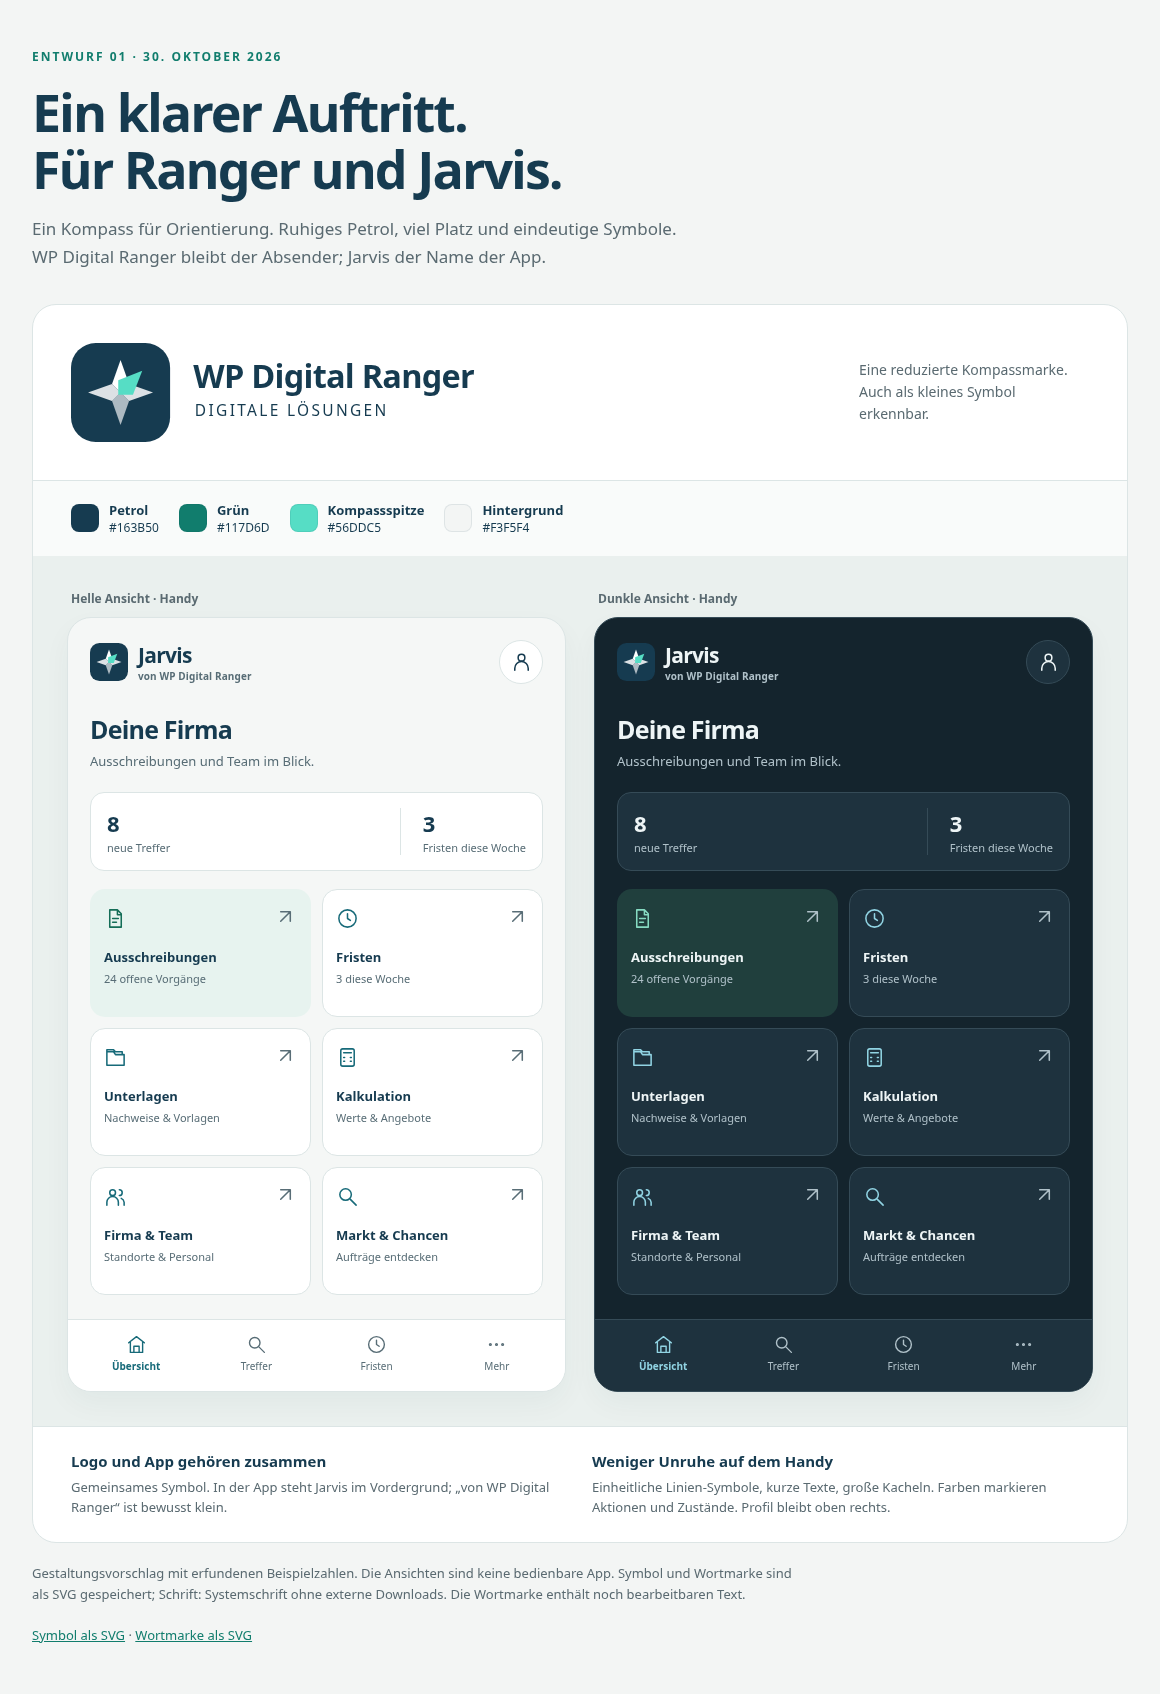
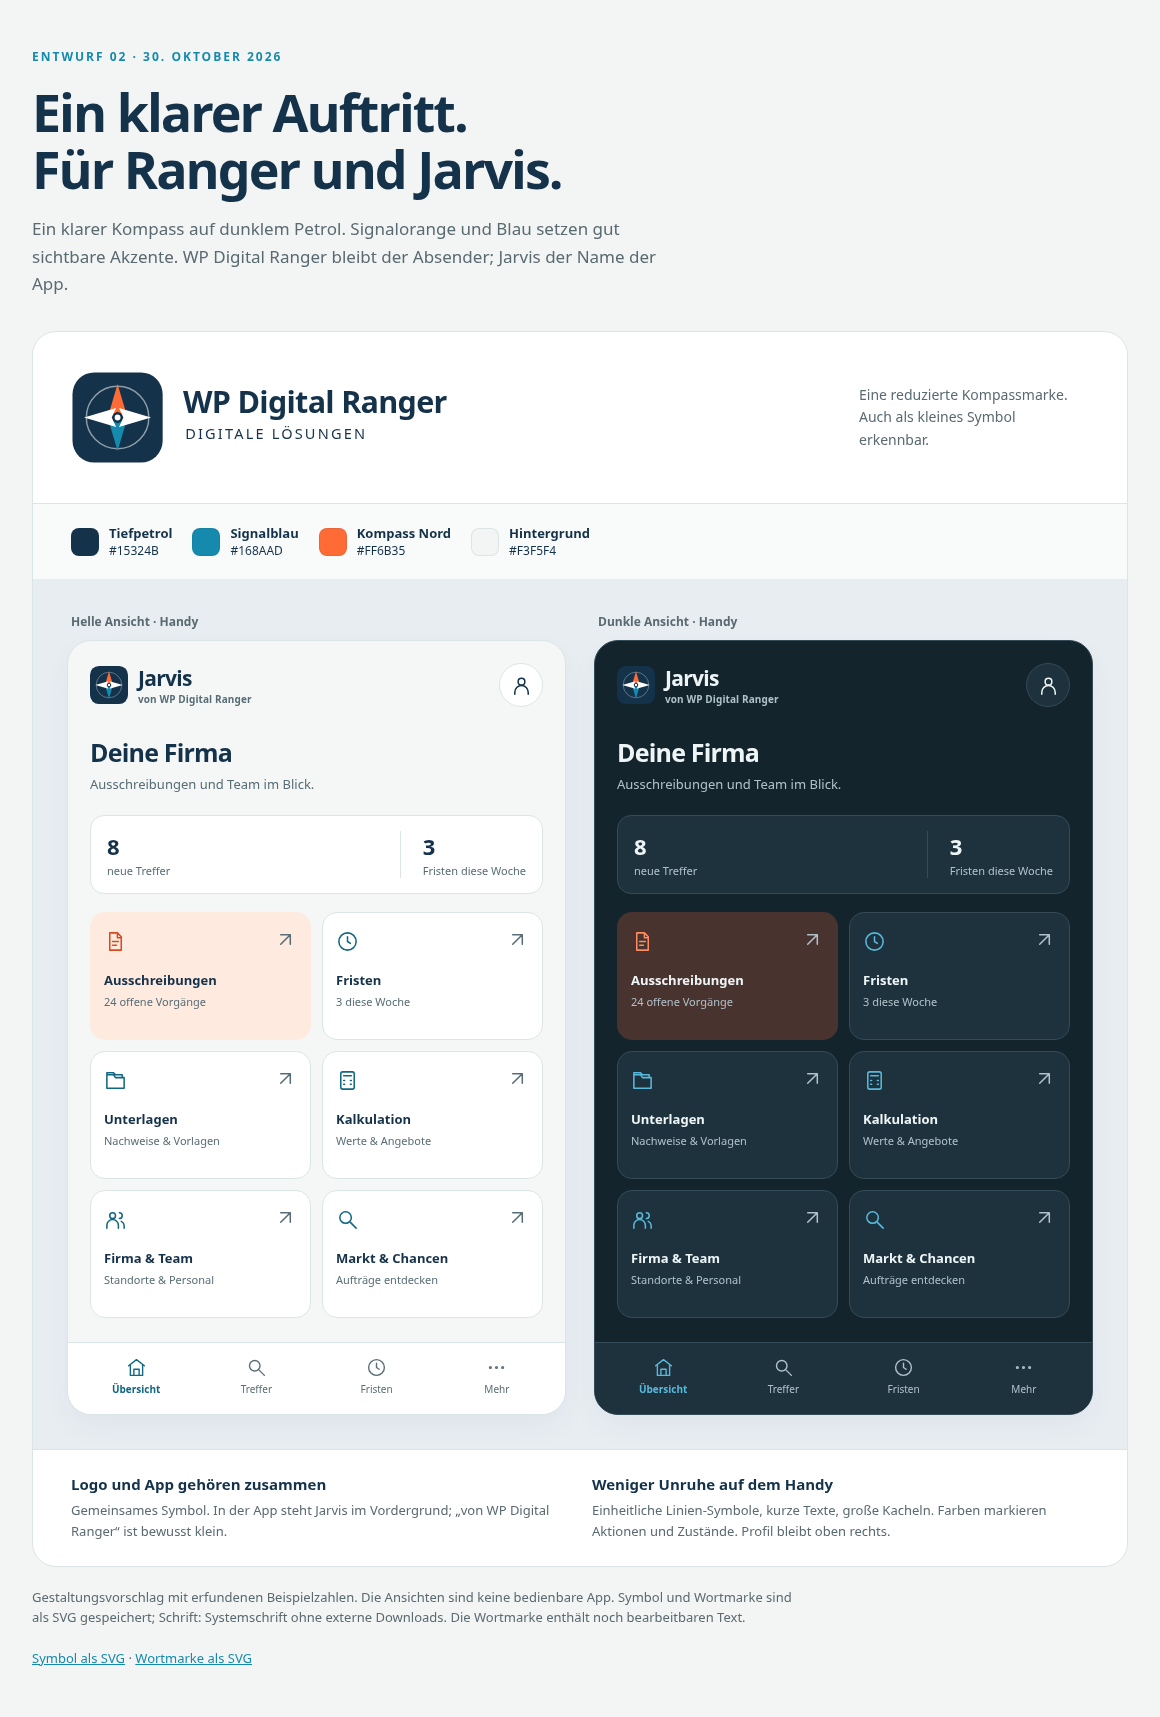
Logoentwurf mit klarerem Farbkontrast überarbeiten

diff --git a/docs/design/vorschau.html b/docs/design/vorschau.html
@@ -5,17 +5,17 @@
 <meta name="viewport" content="width=device-width, initial-scale=1">
 <title>WP Digital Ranger · Designvorschlag für Jarvis</title>
 <style>
-:root{color-scheme:light;--ink:#163b50;--teal:#117d6d;--paper:#f3f5f4;--muted:#5a6a71;--line:#dce5e5;font-family:system-ui,-apple-system,"Segoe UI",sans-serif;color:var(--ink);background:var(--paper)}
-*{box-sizing:border-box}body{margin:0}main{max-width:1160px;margin:auto;padding:48px 32px}h1{max-width:700px;font-size:clamp(30px,5vw,52px);line-height:1.1;letter-spacing:-2px;margin:18px 0}p{line-height:1.6}.intro{max-width:650px;color:var(--muted);font-size:17px}.eyebrow{font-size:12px;letter-spacing:2px;font-weight:750;text-transform:uppercase;color:var(--teal)}.board{margin-top:34px;border:1px solid var(--line);background:#fff;border-radius:24px;overflow:hidden}.brand{padding:38px;display:flex;align-items:center;justify-content:space-between;gap:24px;flex-wrap:wrap}.brand img{width:min(100%,480px);height:auto}.brand p{font-size:14px;max-width:230px;color:var(--muted)}.swatches{display:flex;gap:20px;flex-wrap:wrap;padding:20px 38px;background:#f9fbfa;border-top:1px solid var(--line)}.swatch{display:flex;gap:10px;align-items:center;font-size:12px}.swatch i{width:28px;height:28px;border-radius:8px;background:var(--color);border:1px solid #163b5018}.swatch b{display:block;font-size:13px}.screens{display:grid;grid-template-columns:1fr 1fr;gap:28px;padding:34px;background:#eaf0ee}.screen-label{display:block;font-size:12px;font-weight:700;color:var(--muted);margin:0 0 10px 4px}.phone{--bg:#f5f7f6;--card:#fff;--text:#163b50;--sub:#586d76;--border:#dce5e5;--action:#176a79;--tint:#e7f3ef;--green:#146d57;background:var(--bg);color:var(--text);border:1px solid var(--border);border-radius:24px;overflow:hidden;box-shadow:0 12px 28px #163b500b;position:relative}.phone.dark{--bg:#14242d;--card:#1e323e;--text:#eef5f6;--sub:#b0c1c9;--border:#354b57;--action:#91d4e3;--tint:#203f3d;--green:#86dbc2}.top{padding:22px 22px 0;display:flex;justify-content:space-between;align-items:center}.product{display:flex;align-items:center;gap:10px}.product img{height:38px;width:38px}.product b{font-size:21px;letter-spacing:-.7px}.product small{display:block;font-size:10px;font-weight:600;letter-spacing:.1px;color:var(--sub)}.profile{width:44px;height:44px;display:grid;place-items:center;border:1px solid var(--border);border-radius:50%;background:var(--card);color:var(--text)}svg.icon{height:23px;width:23px;fill:none;stroke:currentColor;stroke-width:1.6;stroke-linecap:round;stroke-linejoin:round}.content{padding:28px 22px 24px}.content h2{font-size:25px;letter-spacing:-.8px;margin:0 0 5px}.content>p{font-size:13px;color:var(--sub);margin:0 0 20px}.summary{display:flex;align-items:center;justify-content:space-between;padding:15px 16px;border:1px solid var(--border);border-radius:14px;margin-bottom:18px;background:var(--card)}.summary b{font-size:22px;letter-spacing:-.5px}.summary small{display:block;color:var(--sub);font-size:11px;margin-top:2px}.summary>div+div{border-left:1px solid var(--border);padding-left:22px}.tiles{display:grid;grid-template-columns:repeat(2,minmax(0,1fr));gap:11px}.tile{min-width:0;min-height:128px;padding:15px 13px;border:1px solid var(--border);border-radius:15px;background:var(--card)}.tile-head{display:flex;align-items:center;justify-content:space-between;color:var(--action);margin-bottom:15px}.tile-head>span{color:var(--sub);font-size:18px}.tile strong{display:block;font-size:13px}.tile small{display:block;color:var(--sub);font-size:11px;margin-top:5px}.tile.feature{background:var(--tint);border-color:transparent}.tile.feature .tile-head{color:var(--green)}.bottom{display:grid;grid-template-columns:repeat(4,minmax(0,1fr));border-top:1px solid var(--border);padding:10px 8px 13px;background:var(--card)}.nav-item{min-height:48px;display:flex;flex-direction:column;align-items:center;justify-content:center;gap:4px;color:var(--sub);font-size:10px}.nav-item.selected{color:var(--action);font-weight:750}.nav-item .icon{width:21px;height:21px}.note{font-size:13px;color:var(--muted);margin:20px 0 0;max-width:760px}.decision{padding:24px 38px;border-top:1px solid var(--line);display:grid;grid-template-columns:1fr 1fr;gap:24px}.decision h3{font-size:15px;margin:0 0 6px}.decision p{font-size:13px;color:var(--muted);margin:0}.mock-data{font-size:11px;letter-spacing:.8px;color:var(--muted);margin-top:22px;text-transform:uppercase}a{color:var(--teal)}@media(max-width:680px){main{padding:28px 16px}h1{letter-spacing:-1px}.brand{padding:25px}.swatches{padding:20px 25px}.screens{grid-template-columns:1fr;padding:20px;gap:24px}.decision{grid-template-columns:1fr;padding:25px}.content{padding-left:18px;padding-right:18px}}
+:root{color-scheme:light;--ink:#15324b;--teal:#168aad;--paper:#f3f5f4;--muted:#5a6a71;--line:#dce5e5;font-family:system-ui,-apple-system,"Segoe UI",sans-serif;color:var(--ink);background:var(--paper)}
+*{box-sizing:border-box}body{margin:0}main{max-width:1160px;margin:auto;padding:48px 32px}h1{max-width:700px;font-size:clamp(30px,5vw,52px);line-height:1.1;letter-spacing:-2px;margin:18px 0}p{line-height:1.6}.intro{max-width:650px;color:var(--muted);font-size:17px}.eyebrow{font-size:12px;letter-spacing:2px;font-weight:750;text-transform:uppercase;color:var(--teal)}.board{margin-top:34px;border:1px solid var(--line);background:#fff;border-radius:24px;overflow:hidden}.brand{padding:38px;display:flex;align-items:center;justify-content:space-between;gap:24px;flex-wrap:wrap}.brand img{width:min(100%,480px);height:auto}.brand p{font-size:14px;max-width:230px;color:var(--muted)}.swatches{display:flex;gap:20px;flex-wrap:wrap;padding:20px 38px;background:#f9fbfa;border-top:1px solid var(--line)}.swatch{display:flex;gap:10px;align-items:center;font-size:12px}.swatch i{width:28px;height:28px;border-radius:8px;background:var(--color);border:1px solid #163b5018}.swatch b{display:block;font-size:13px}.screens{display:grid;grid-template-columns:1fr 1fr;gap:28px;padding:34px;background:#e8edf2}.screen-label{display:block;font-size:12px;font-weight:700;color:var(--muted);margin:0 0 10px 4px}.phone{--bg:#f5f7f6;--card:#fff;--text:#15324b;--sub:#586d76;--border:#dce5e5;--action:#126782;--tint:#ffeadf;--green:#d84b20;background:var(--bg);color:var(--text);border:1px solid var(--border);border-radius:24px;overflow:hidden;box-shadow:0 12px 28px #163b500b;position:relative}.phone.dark{--bg:#14242d;--card:#1e323e;--text:#eef5f6;--sub:#b0c1c9;--border:#354b57;--action:#58b9dc;--tint:#49332f;--green:#ff8b60}.top{padding:22px 22px 0;display:flex;justify-content:space-between;align-items:center}.product{display:flex;align-items:center;gap:10px}.product img{height:38px;width:38px}.product b{font-size:21px;letter-spacing:-.7px}.product small{display:block;font-size:10px;font-weight:600;letter-spacing:.1px;color:var(--sub)}.profile{width:44px;height:44px;display:grid;place-items:center;border:1px solid var(--border);border-radius:50%;background:var(--card);color:var(--text)}svg.icon{height:23px;width:23px;fill:none;stroke:currentColor;stroke-width:1.6;stroke-linecap:round;stroke-linejoin:round}.content{padding:28px 22px 24px}.content h2{font-size:25px;letter-spacing:-.8px;margin:0 0 5px}.content>p{font-size:13px;color:var(--sub);margin:0 0 20px}.summary{display:flex;align-items:center;justify-content:space-between;padding:15px 16px;border:1px solid var(--border);border-radius:14px;margin-bottom:18px;background:var(--card)}.summary b{font-size:22px;letter-spacing:-.5px}.summary small{display:block;color:var(--sub);font-size:11px;margin-top:2px}.summary>div+div{border-left:1px solid var(--border);padding-left:22px}.tiles{display:grid;grid-template-columns:repeat(2,minmax(0,1fr));gap:11px}.tile{min-width:0;min-height:128px;padding:15px 13px;border:1px solid var(--border);border-radius:15px;background:var(--card)}.tile-head{display:flex;align-items:center;justify-content:space-between;color:var(--action);margin-bottom:15px}.tile-head>span{color:var(--sub);font-size:18px}.tile strong{display:block;font-size:13px}.tile small{display:block;color:var(--sub);font-size:11px;margin-top:5px}.tile.feature{background:var(--tint);border-color:transparent}.tile.feature .tile-head{color:var(--green)}.bottom{display:grid;grid-template-columns:repeat(4,minmax(0,1fr));border-top:1px solid var(--border);padding:10px 8px 13px;background:var(--card)}.nav-item{min-height:48px;display:flex;flex-direction:column;align-items:center;justify-content:center;gap:4px;color:var(--sub);font-size:10px}.nav-item.selected{color:var(--action);font-weight:750}.nav-item .icon{width:21px;height:21px}.note{font-size:13px;color:var(--muted);margin:20px 0 0;max-width:760px}.decision{padding:24px 38px;border-top:1px solid var(--line);display:grid;grid-template-columns:1fr 1fr;gap:24px}.decision h3{font-size:15px;margin:0 0 6px}.decision p{font-size:13px;color:var(--muted);margin:0}.mock-data{font-size:11px;letter-spacing:.8px;color:var(--muted);margin-top:22px;text-transform:uppercase}a{color:var(--teal)}@media(max-width:680px){main{padding:28px 16px}h1{letter-spacing:-1px}.brand{padding:25px}.swatches{padding:20px 25px}.screens{grid-template-columns:1fr;padding:20px;gap:24px}.decision{grid-template-columns:1fr;padding:25px}.content{padding-left:18px;padding-right:18px}}
 </style>
 </head>
 <body><main>
-<div class="eyebrow">Entwurf 01 · 30. Oktober 2026</div>
+<div class="eyebrow">Entwurf 02 · 30. Oktober 2026</div>
 <h1>Ein klarer Auftritt.<br>Für Ranger und Jarvis.</h1>
-<p class="intro">Ein Kompass für Orientierung. Ruhiges Petrol, viel Platz und eindeutige Symbole. WP Digital Ranger bleibt der Absender; Jarvis der Name der App.</p>
+<p class="intro">Ein klarer Kompass auf dunklem Petrol. Signalorange und Blau setzen gut sichtbare Akzente. WP Digital Ranger bleibt der Absender; Jarvis der Name der App.</p>
 <section class="board" aria-label="Logo und Anwendungsvorschau">
 <div class="brand"><img src="ranger-wortmarke.svg" alt="Entwurf der Wort-Bildmarke WP Digital Ranger"><p>Eine reduzierte Kompassmarke.<br>Auch als kleines Symbol erkennbar.</p></div>
-<div class="swatches"><div class="swatch"><i style="--color:#163b50"></i><span><b>Petrol</b>#163B50</span></div><div class="swatch"><i style="--color:#117d6d"></i><span><b>Grün</b>#117D6D</span></div><div class="swatch"><i style="--color:#56ddc5"></i><span><b>Kompassspitze</b>#56DDC5</span></div><div class="swatch"><i style="--color:#f3f5f4"></i><span><b>Hintergrund</b>#F3F5F4</span></div></div>
+<div class="swatches"><div class="swatch"><i style="--color:#15324b"></i><span><b>Tiefpetrol</b>#15324B</span></div><div class="swatch"><i style="--color:#168aad"></i><span><b>Signalblau</b>#168AAD</span></div><div class="swatch"><i style="--color:#ff6b35"></i><span><b>Kompass Nord</b>#FF6B35</span></div><div class="swatch"><i style="--color:#f3f5f4"></i><span><b>Hintergrund</b>#F3F5F4</span></div></div>
 <div class="screens" id="screens"></div>
 <div class="decision"><div><h3>Logo und App gehören zusammen</h3><p>Gemeinsames Symbol. In der App steht Jarvis im Vordergrund; „von WP Digital Ranger“ ist bewusst klein.</p></div><div><h3>Weniger Unruhe auf dem Handy</h3><p>Einheitliche Linien-Symbole, kurze Texte, große Kacheln. Farben markieren Aktionen und Zustände. Profil bleibt oben rechts.</p></div></div>
 </section>

diff --git a/docs/stand.md b/docs/stand.md
@@ -5,7 +5,7 @@ Regeln dazu stehen in `AGENTS.md` Abschnitt 1. Neueste Einträge oben.
 ## Aktueller Stand (30.10.2026)
 - **Automationsprüfung 30.10., 18:26 Berlin (lesend):** jüngste CI-, Web- und Datenbankläufe erfolgreich; geplanter Alarm erfolgreich protokolliert. Automatische tägliche Mail separat nachweisen; Details und Prüfgrenzen im neuesten Protokolleintrag.
 - **App online:** https://app.wpdigitalranger.com (seit 30.10.2026; die alte workers.dev-Adresse leitet weiter)
-- **Logo-/Designentwurf zur Ansicht:** `docs/design/vorschau.png` und `docs/design/vorschau.html`, mit skalierbarer Kompass-/Wortmarke für WP Digital Ranger und heller/dunkler Jarvis-Handyansicht. Noch nicht in der App eingesetzt; Benjamin sieht den Entwurf zuerst.
+- **Überarbeiteter Logo-/Designentwurf zur Ansicht:** `docs/design/vorschau.png` und `docs/design/vorschau.html`, mit skalierbarer Kompass-/Wortmarke für WP Digital Ranger und heller/dunkler Jarvis-Handyansicht. Noch nicht in der App eingesetzt; Benjamin sieht den Entwurf zuerst.
   - Startseite mit Erklärung und Beispiel-Steckbrief; Impressum, Datenschutz, Nutzungsbedingungen, AVV (Entwürfe, Benjamin prüft noch).
   - Registrierung mit Passwort, Passwort-Anmeldung/-Wiederherstellung und Mail-Link; bestätigte neue Firmen werden zunächst kostenlos angelegt. Firmen, Bereiche/Standorte, Rollen und Einladungen.
   - Ausschreibungen als Handy-Karten mit Punkten, Frist, Stand und Bereichsfilter; Treffer-Seite mit Steckbrief, Knopf „Hier runterladen“
@@ -242,3 +242,7 @@ Regeln dazu stehen in `AGENTS.md` Abschnitt 1. Neueste Einträge oben.
 - Einrichtungs-Assistent, Sofort-Lauf (Secret ACTIONS_TOKEN von Benjamin gesetzt), tägliche Mail mit Uhrzeitwahl, Handy-Nachrichten.
 - User-Agent nennt jetzt kontakt@wpdigitalranger.com (vorher versehentlich RestockHero-Adresse).
 - Offen für Benjamin: Handy-Test, Rechtstexte lesen, Anthropic-Limit.
+
+### 30.10.2026 – ChatGPT (Logo-Kontrast nachgeschärft)
+- Auf Benjamins Rückmeldung das Logo überarbeitet: nun klar erkennbare Kompassrose mit Ring, oranger Nordspitze und blauer Südspitze auf dunklem Petrol. Die Farbchips und hell/dunklen Handyansichten zeigen stärkere Orange-/Blau-Akzente.
+- SVG-Logo und Wortmarke sowie HTML-/PNG-Vorschau aktualisiert. Noch kein Einbau in die App.

diff --git a/docs/design/README.md b/docs/design/README.md
@@ -1,6 +1,6 @@
-# Logo und Design – Vorschlag 01
+# Logo und Design – Vorschlag 02
 
-30.10.2026 – ChatGPT. Entwurf zur Ansicht durch Benjamin, noch nicht in der App eingesetzt.
+30.10.2026 – ChatGPT. überarbeiteter Entwurf nach Rückmeldung zur Ansicht durch Benjamin, noch nicht in der App eingesetzt.
 
 ## Dateien
 
@@ -12,8 +12,8 @@
 ## Gestaltungsentscheidungen
 
 - WP Digital Ranger ist die Unternehmensmarke, Jarvis der Produktname. Kein Umbenennen der App.
-- Kompass steht für Orientierung; türkisfarbene Nordostspitze als wiedererkennbares Detail. Kein Wappen, keine fremden Logos oder Bildmaterialien.
-- Petrol als Hauptfarbe, ruhiger heller Hintergrund; grüner Akzent für ausgewählte Elemente. Dunkle Ansicht mit eigenständigen Kontrastfarben.
+- Kompass steht für Orientierung; orangefarbene Nordspitze und blaue Südspitze als wiedererkennbares Detail. Kein Wappen, keine fremden Logos oder Bildmaterialien.
+- Tiefpetrol als Grundfarbe, Signalorange und deutliches Blau als sichtbare Akzente, heller neutraler Hintergrund. Dunkle Ansicht mit klar abgesetzten Akzenten.
 - Einheitliche SVG-Linien-Symbole statt unterschiedlicher Emoji-Darstellungen, Profil oben rechts, feste Handyleiste, Kacheln mit kurzen Texten.
 - Alle Zahlen und die Firmenbezeichnung in der Vorschau sind fiktiv. Die Vorschau hat keine Anmeldung, Datenbankzugriffe oder bedienbare App-Funktionen.
 
